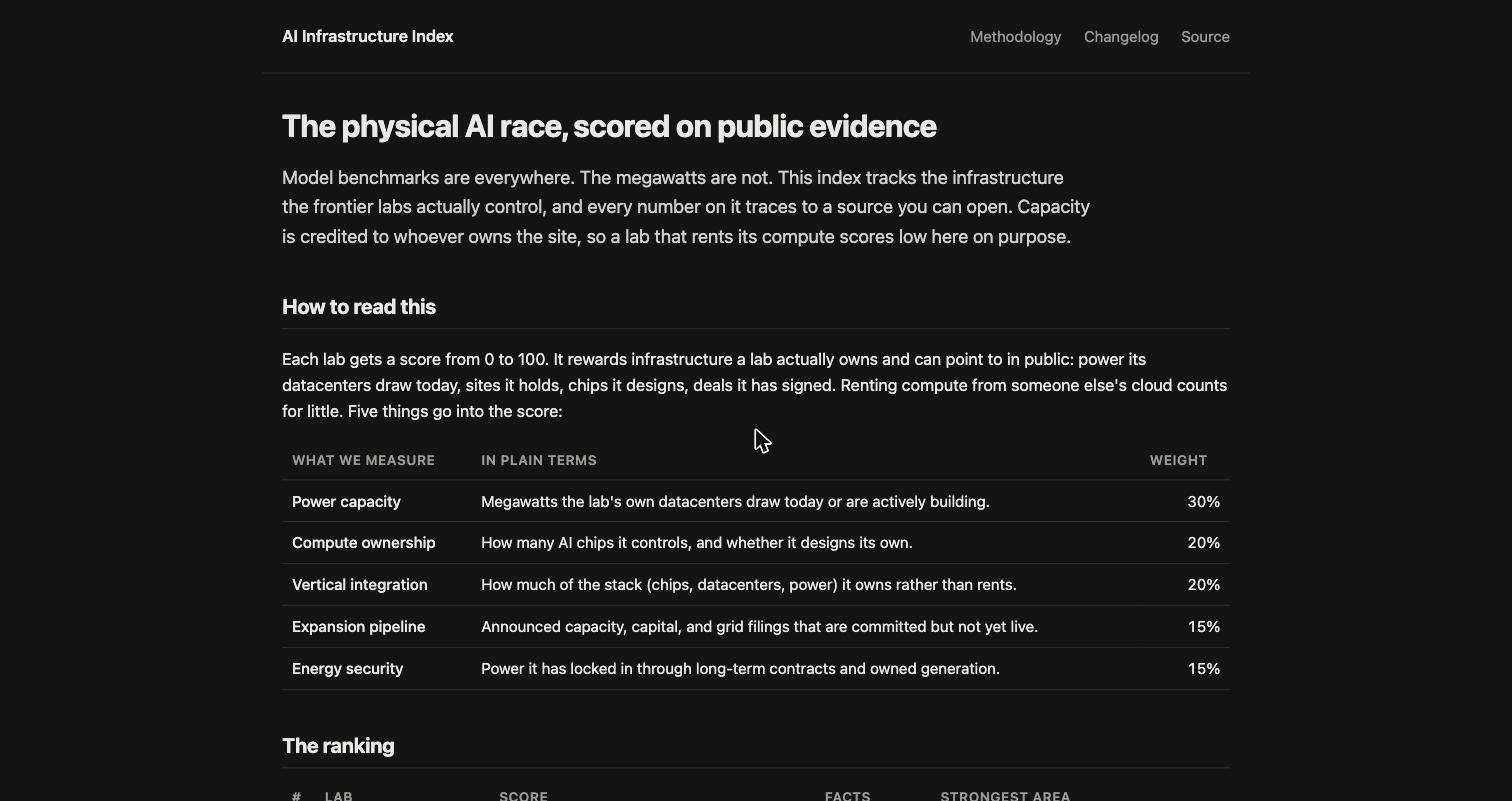
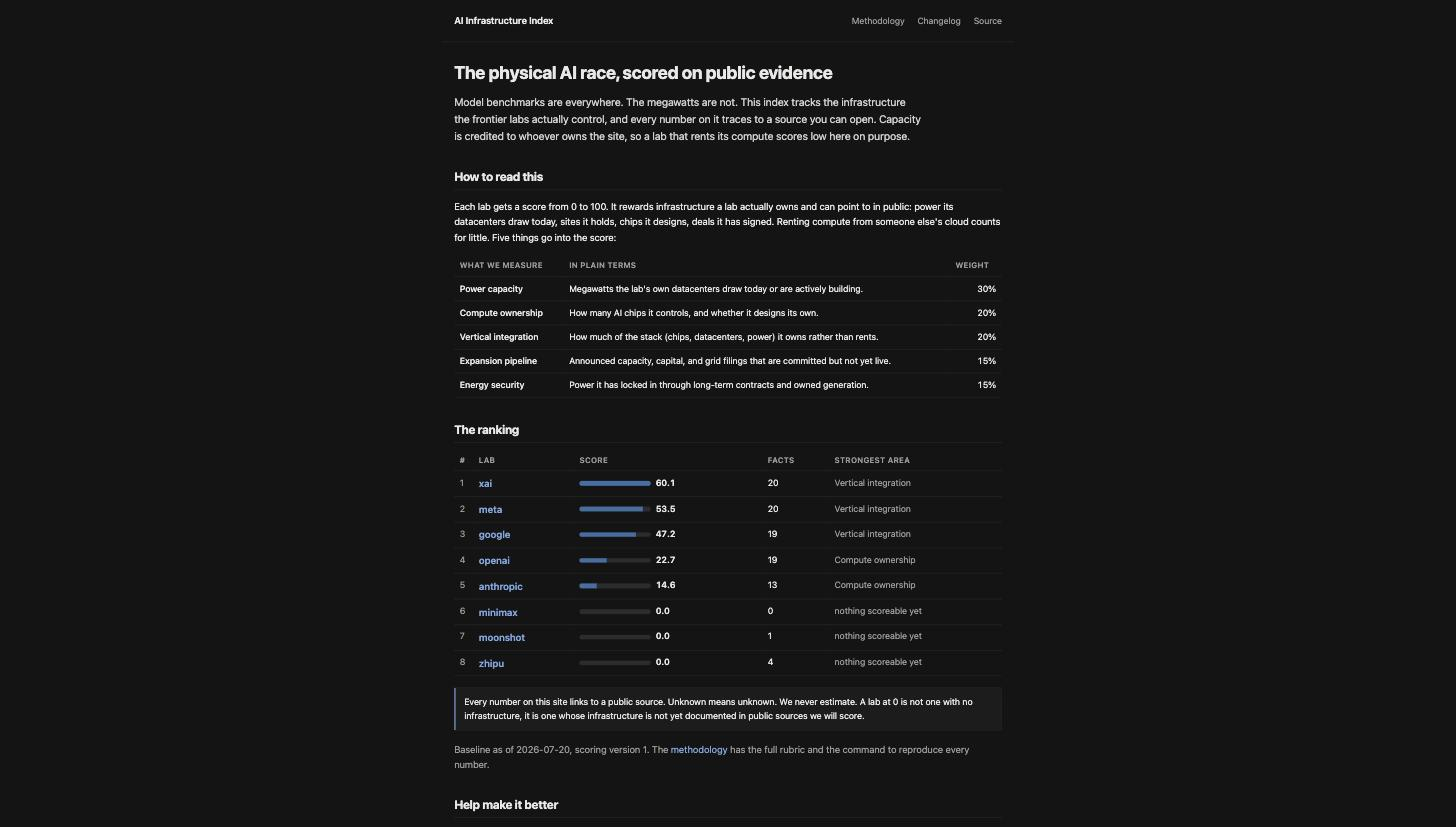
Better README preview; invite input across the UI and docs
- Replace the preview image with one showing the full index (the plain-language
  measure table and the complete ranking) using current data.
- Add an explicit call for input everywhere: site footer on every page, a
  "Help make it better" section on the home page, and callouts in the README and
  CONTRIBUTING. We are actively seeking corrections, missing sources, data
  validation, and proposals for better scoring.

Claude-Session: https://claude.ai/code/session_0116LqvUAaeE9kgtUbPDXz5D

diff --git a/docs/index.html b/docs/index.html
@@ -47,9 +47,20 @@ in public sources we will score.</p>
 <p class="muted">Baseline as of 2026-07-20, scoring version 1. The
 <a href="methodology.html">methodology</a> has the full rubric and the command to reproduce every number.</p>
 
+<h2>Help make it better</h2>
+<p>This index is early and it gets sharper the more people push on it. We are actively looking for
+input from anyone who knows this terrain: challenge a number you think is wrong, point us at a
+better or missing source, flag a datacenter or deal we have not captured, or argue for a smarter way
+to weigh the score. Nothing here is settled.</p>
+<p><a href="https://github.com/trivikrama-madhusudhana/ai-infra-index/issues">Open an issue</a> to raise a correction or an idea, or send a
+<a href="https://github.com/trivikrama-madhusudhana/ai-infra-index/pulls">pull request</a> against the evidence ledger. Every fact traces to a public
+source precisely so it can be checked and argued with.</p>
+
 </main>
 <footer>
   <p>Every number links to a public source. Unknown means unknown. We never estimate.</p>
+  <p><strong>This is an open work in progress and we want your input.</strong> Challenge a number, send a
+  better source, or propose a smarter way to score. <a href="https://github.com/trivikrama-madhusudhana/ai-infra-index/issues">Open an issue or a pull request</a>.</p>
   <p class="muted">Scores come from a deterministic engine anyone can rerun: <code>python scripts/score.py --as-of 2026-07-20</code>.</p>
 </footer>
 </body>

diff --git a/docs/changelog.html b/docs/changelog.html
@@ -36,6 +36,8 @@
 </main>
 <footer>
   <p>Every number links to a public source. Unknown means unknown. We never estimate.</p>
+  <p><strong>This is an open work in progress and we want your input.</strong> Challenge a number, send a
+  better source, or propose a smarter way to score. <a href="https://github.com/trivikrama-madhusudhana/ai-infra-index/issues">Open an issue or a pull request</a>.</p>
   <p class="muted">Scores come from a deterministic engine anyone can rerun: <code>python scripts/score.py --as-of 2026-07-20</code>.</p>
 </footer>
 </body>

diff --git a/docs/company/anthropic.html b/docs/company/anthropic.html
@@ -49,6 +49,8 @@ engine evaluated, for anyone who wants to check the math.</p>
 </main>
 <footer>
   <p>Every number links to a public source. Unknown means unknown. We never estimate.</p>
+  <p><strong>This is an open work in progress and we want your input.</strong> Challenge a number, send a
+  better source, or propose a smarter way to score. <a href="https://github.com/trivikrama-madhusudhana/ai-infra-index/issues">Open an issue or a pull request</a>.</p>
   <p class="muted">Scores come from a deterministic engine anyone can rerun: <code>python scripts/score.py --as-of 2026-07-20</code>.</p>
 </footer>
 </body>

diff --git a/docs/company/google.html b/docs/company/google.html
@@ -49,6 +49,8 @@ engine evaluated, for anyone who wants to check the math.</p>
 </main>
 <footer>
   <p>Every number links to a public source. Unknown means unknown. We never estimate.</p>
+  <p><strong>This is an open work in progress and we want your input.</strong> Challenge a number, send a
+  better source, or propose a smarter way to score. <a href="https://github.com/trivikrama-madhusudhana/ai-infra-index/issues">Open an issue or a pull request</a>.</p>
   <p class="muted">Scores come from a deterministic engine anyone can rerun: <code>python scripts/score.py --as-of 2026-07-20</code>.</p>
 </footer>
 </body>

diff --git a/docs/company/meta.html b/docs/company/meta.html
@@ -49,6 +49,8 @@ engine evaluated, for anyone who wants to check the math.</p>
 </main>
 <footer>
   <p>Every number links to a public source. Unknown means unknown. We never estimate.</p>
+  <p><strong>This is an open work in progress and we want your input.</strong> Challenge a number, send a
+  better source, or propose a smarter way to score. <a href="https://github.com/trivikrama-madhusudhana/ai-infra-index/issues">Open an issue or a pull request</a>.</p>
   <p class="muted">Scores come from a deterministic engine anyone can rerun: <code>python scripts/score.py --as-of 2026-07-20</code>.</p>
 </footer>
 </body>

diff --git a/docs/company/minimax.html b/docs/company/minimax.html
@@ -49,6 +49,8 @@ engine evaluated, for anyone who wants to check the math.</p>
 </main>
 <footer>
   <p>Every number links to a public source. Unknown means unknown. We never estimate.</p>
+  <p><strong>This is an open work in progress and we want your input.</strong> Challenge a number, send a
+  better source, or propose a smarter way to score. <a href="https://github.com/trivikrama-madhusudhana/ai-infra-index/issues">Open an issue or a pull request</a>.</p>
   <p class="muted">Scores come from a deterministic engine anyone can rerun: <code>python scripts/score.py --as-of 2026-07-20</code>.</p>
 </footer>
 </body>

diff --git a/docs/company/moonshot.html b/docs/company/moonshot.html
@@ -49,6 +49,8 @@ engine evaluated, for anyone who wants to check the math.</p>
 </main>
 <footer>
   <p>Every number links to a public source. Unknown means unknown. We never estimate.</p>
+  <p><strong>This is an open work in progress and we want your input.</strong> Challenge a number, send a
+  better source, or propose a smarter way to score. <a href="https://github.com/trivikrama-madhusudhana/ai-infra-index/issues">Open an issue or a pull request</a>.</p>
   <p class="muted">Scores come from a deterministic engine anyone can rerun: <code>python scripts/score.py --as-of 2026-07-20</code>.</p>
 </footer>
 </body>

diff --git a/docs/company/openai.html b/docs/company/openai.html
@@ -49,6 +49,8 @@ engine evaluated, for anyone who wants to check the math.</p>
 </main>
 <footer>
   <p>Every number links to a public source. Unknown means unknown. We never estimate.</p>
+  <p><strong>This is an open work in progress and we want your input.</strong> Challenge a number, send a
+  better source, or propose a smarter way to score. <a href="https://github.com/trivikrama-madhusudhana/ai-infra-index/issues">Open an issue or a pull request</a>.</p>
   <p class="muted">Scores come from a deterministic engine anyone can rerun: <code>python scripts/score.py --as-of 2026-07-20</code>.</p>
 </footer>
 </body>

diff --git a/docs/company/xai.html b/docs/company/xai.html
@@ -49,6 +49,8 @@ engine evaluated, for anyone who wants to check the math.</p>
 </main>
 <footer>
   <p>Every number links to a public source. Unknown means unknown. We never estimate.</p>
+  <p><strong>This is an open work in progress and we want your input.</strong> Challenge a number, send a
+  better source, or propose a smarter way to score. <a href="https://github.com/trivikrama-madhusudhana/ai-infra-index/issues">Open an issue or a pull request</a>.</p>
   <p class="muted">Scores come from a deterministic engine anyone can rerun: <code>python scripts/score.py --as-of 2026-07-20</code>.</p>
 </footer>
 </body>

diff --git a/docs/company/zhipu.html b/docs/company/zhipu.html
@@ -49,6 +49,8 @@ engine evaluated, for anyone who wants to check the math.</p>
 </main>
 <footer>
   <p>Every number links to a public source. Unknown means unknown. We never estimate.</p>
+  <p><strong>This is an open work in progress and we want your input.</strong> Challenge a number, send a
+  better source, or propose a smarter way to score. <a href="https://github.com/trivikrama-madhusudhana/ai-infra-index/issues">Open an issue or a pull request</a>.</p>
   <p class="muted">Scores come from a deterministic engine anyone can rerun: <code>python scripts/score.py --as-of 2026-07-20</code>.</p>
 </footer>
 </body>

diff --git a/docs/methodology.html b/docs/methodology.html
@@ -109,6 +109,8 @@ score                  = sum(category.contribution)          # 0-100</code></pre
 </main>
 <footer>
   <p>Every number links to a public source. Unknown means unknown. We never estimate.</p>
+  <p><strong>This is an open work in progress and we want your input.</strong> Challenge a number, send a
+  better source, or propose a smarter way to score. <a href="https://github.com/trivikrama-madhusudhana/ai-infra-index/issues">Open an issue or a pull request</a>.</p>
   <p class="muted">Scores come from a deterministic engine anyone can rerun: <code>python scripts/score.py --as-of 2026-07-20</code>.</p>
 </footer>
 </body>

diff --git a/scripts/build_site.py b/scripts/build_site.py
@@ -167,6 +167,8 @@ PAGE = """<!doctype html>
 </main>
 <footer>
   <p>Every number links to a public source. Unknown means unknown. We never estimate.</p>
+  <p><strong>This is an open work in progress and we want your input.</strong> Challenge a number, send a
+  better source, or propose a smarter way to score. <a href="{repo}/issues">Open an issue or a pull request</a>.</p>
   <p class="muted">Scores come from a deterministic engine anyone can rerun: <code>python scripts/score.py --as-of {asof}</code>.</p>
 </footer>
 </body>
@@ -334,6 +336,15 @@ A lab at 0 is not one with no infrastructure, it is one whose infrastructure is 
 in public sources we will score.</p>
 <p class="muted">Baseline as of {esc(asof)}, scoring version {index['meta']['scoring_version']}. The
 <a href="methodology.html">methodology</a> has the full rubric and the command to reproduce every number.</p>
+
+<h2>Help make it better</h2>
+<p>This index is early and it gets sharper the more people push on it. We are actively looking for
+input from anyone who knows this terrain: challenge a number you think is wrong, point us at a
+better or missing source, flag a datacenter or deal we have not captured, or argue for a smarter way
+to weigh the score. Nothing here is settled.</p>
+<p><a href="{REPO_URL}/issues">Open an issue</a> to raise a correction or an idea, or send a
+<a href="{REPO_URL}/pulls">pull request</a> against the evidence ledger. Every fact traces to a public
+source precisely so it can be checked and argued with.</p>
 """
     (SITE / "index.html").write_text(page("AI Infrastructure Index", body, 0, asof))
 